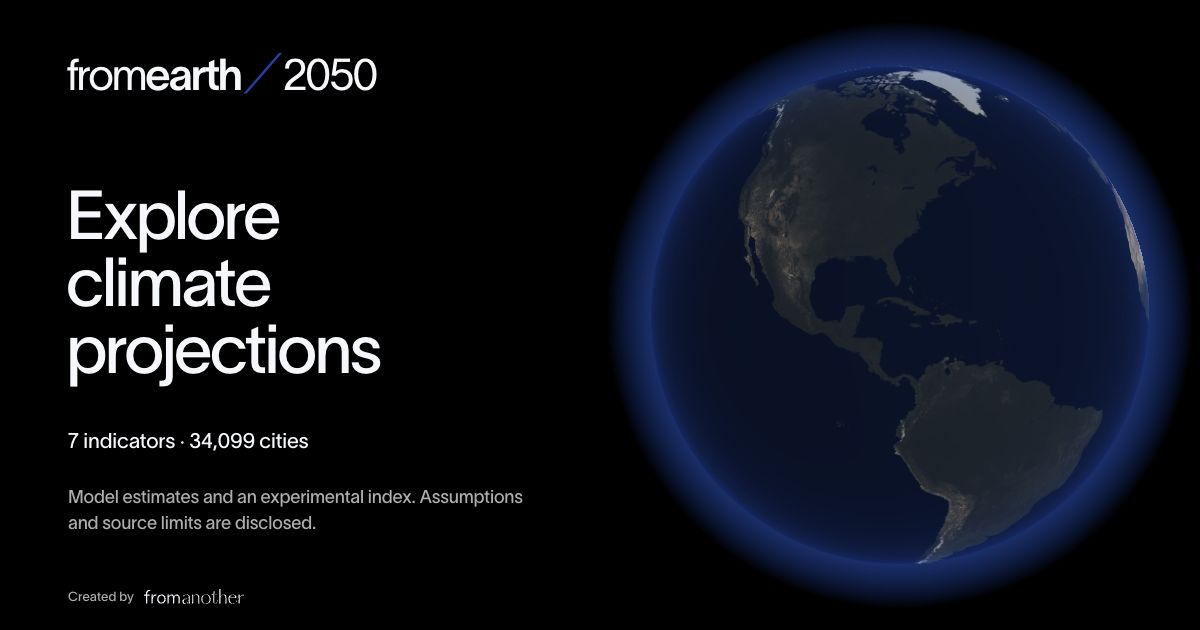
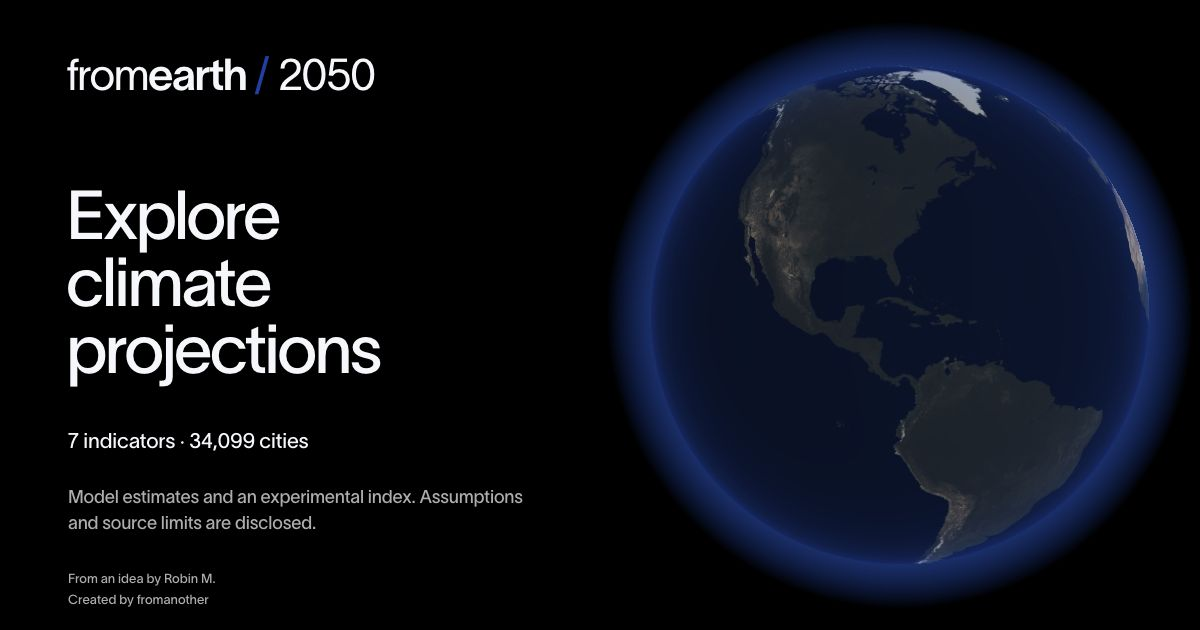
Center attribution, use linked studio text and align wordmark

Changed region(s): [[0.0617, 0.0905, 0.3392, 0.1508], [0.0617, 0.9048, 0.2158, 0.9651]]

diff --git a/index.html b/index.html
@@ -225,7 +225,7 @@
 
   <div class="v-centre">
     <div class="v-eyebrow"><span data-t="sous1"></span></div>
-     <div id="v-wordmark" aria-hidden="true"><span class="v-masque"><span class="lettre">from<strong>earth</strong><em>／</em>2050</span></span></div>
+     <div id="v-wordmark" aria-hidden="true"><span class="v-masque"><span class="lettre brand-lockup"><span class="brand-name">from<strong>earth</strong></span><em>/</em><span class="brand-year">2050</span></span></span></div>
     <div class="v-eyebrow v-eyebrow-bas"><span data-t="sous2"></span></div>
 
     <div class="v-charge">
@@ -239,7 +239,7 @@
 </div>
 
 <header id="titre" class="panneau">
-  <h1 id="wordmark" aria-label="fromearth / 2050"><span>from<strong>earth</strong><em>／</em>2050</span></h1>
+  <h1 id="wordmark" aria-label="fromearth / 2050"><span class="brand-lockup"><span class="brand-name">from<strong>earth</strong></span><em>/</em><span class="brand-year">2050</span></span></h1>
   <div class="micro" data-t="sousHeader"></div>
 </header>
 
@@ -307,7 +307,7 @@
       <button class="bouton-ico fa-lien" id="bouton-partager"></button>
       <button class="bouton-ico fa-lien" id="bouton-son">Son · off</button>
       <button class="bouton-ico fa-lien" id="bouton-langue" type="button" aria-haspopup="dialog"></button>
-      <p class="creator-credit"><span data-t="createdBy"></span><a href="https://fromanother.love" target="_blank" rel="noopener"><img src="./assets/fromanother.svg" alt="fromanother"></a></p>
+      <div class="creator-credit"><p class="creator-idea" data-t="ideaBy"></p><p class="creator-studio"><a href="https://fromanother.love" target="_blank" rel="noopener"><span data-t="createdBy"></span> fromanother</a></p></div>
     </div>
   </div>
 </div>
@@ -2901,9 +2901,7 @@ async function genererStory(opts){
   const cjk = ['ja', 'zh', 'zh-Hant'].includes(langue);
   const indice = pays ? indicePays(l[1], an) : (l[7] ? indiceHabitabilite(l, an) : null);
   const indice50 = pays ? indicePays(l[1], 2050) : (l[7] ? indiceHabitabilite(l, 2050) : null);
-  const creator = new Image();
-  creator.src = './assets/fromanother.svg';
-  await Promise.all([... [`300 340px ${sans}`,`400 150px ${sans}`,`500 36px ${sans}`,`600 62px ${sans}`,'300 62px "TWK Lausanne"','600 62px "TWK Lausanne"'].map(f => document.fonts.load(f)), creator.decode()]);
+  await Promise.all([`300 340px ${sans}`,`400 150px ${sans}`,`500 36px ${sans}`,`600 62px ${sans}`,'300 62px "TWK Lausanne"','600 62px "TWK Lausanne"'].map(f => document.fonts.load(f)));
   const cv = document.createElement('canvas'); cv.width = 1080; cv.height = 1920;
   const g = cv.getContext('2d');
   const CREME = '#F5F7FA', MUTER = 'rgba(245,247,250,0.65)';
@@ -3013,11 +3011,9 @@ async function genererStory(opts){
     g.letterSpacing = cjk ? '0px' : '2px'; g.fillStyle = 'rgba(245,247,250,0.45)'; g.font = `400 24px ${sans}`;
     g.fillText(location.host + location.pathname + `#v=${encodeURIComponent(l[0])}&an=${an}&cc=${l[1]}`, 540, 1746);
     g.letterSpacing = '0px';
-    g.font = `400 24px ${sans}`;
-    const label = t.createdBy + ' ', labelWidth = g.measureText(label).width;
-    const creditX = 540 - (labelWidth + 170) / 2;
-    g.textAlign = 'left'; g.fillText(label, creditX, 1830);
-    g.drawImage(creator, creditX + labelWidth, 1809, 170, 170 * creator.naturalHeight / creator.naturalWidth);
+    g.font = `400 24px ${sans}`; g.fillStyle = MUTER;
+    g.fillText(t.ideaBy, 540, 1806, 840);
+    g.fillText(t.createdBy + ' fromanother', 540, 1850, 840);
   }
   return cv;
 }

diff --git a/premium.css b/premium.css
@@ -16,10 +16,16 @@ html:lang(zh-Hant) {--police:'PingFang TC','Microsoft JhengHei','Noto Sans CJK T
 #titre #wordmark{font-family:"TWK Lausanne",sans-serif;font-weight:300;font-size:26px;white-space:nowrap}
 #v-wordmark{font-family:"TWK Lausanne",sans-serif;font-weight:300;font-size:clamp(28px,7vw,110px)}
 #wordmark strong,#v-wordmark strong{font-weight:600}
-.creator-credit{display:flex;align-items:center;gap:8px;margin-top:12px;padding-top:10px;border-top:1px solid var(--glass-edge);font:400 11px/1.4 var(--police);color:var(--glass-muted);white-space:nowrap}
-.creator-credit a{display:flex;align-items:center;min-height:44px}
-.creator-credit img{display:block;width:94px;height:auto}
-@media(max-width:720px){#titre #wordmark{font-size:clamp(14px,4.1vw,22px)}}
+#wordmark .brand-lockup,#v-wordmark .brand-lockup{display:inline-flex;align-items:baseline;gap:.18em;letter-spacing:0}
+.brand-name{letter-spacing:-.04em}
+.brand-year{letter-spacing:-.035em}
+.brand-lockup em{font-style:normal;font-weight:300}
+.creator-credit{display:grid;align-self:stretch;justify-items:center;gap:0;margin:12px 6px 0;padding:14px 6px 8px;border-top:1px solid var(--glass-edge);font:400 11px/1.5 var(--police);color:var(--glass-muted);text-align:center}
+.creator-credit p{margin:0}
+.creator-studio{display:flex;align-items:center;justify-content:center;font-size:12px}
+.creator-credit a{display:inline-flex;align-items:center;gap:.3em;min-height:44px;color:var(--glass-text);text-decoration:underline;text-decoration-color:#ffffff40;text-underline-offset:3px}
+.creator-credit a:hover{text-decoration-color:currentColor}
+@media(max-width:720px){#titre #wordmark{font-size:clamp(15px,4.6vw,22px)}}
 #titre h1 em {color:var(--bleu)}
 :is(#map-inspector,#dossier,#city-comparison,.pedago-carte,.language-content) {border-radius:28px}
 :is(#map-inspector,#dossier,#city-comparison,#menu-reglages,#resultats,.pedago-carte,.language-content,#calque-bulle,#survol,#accroche) {backdrop-filter:blur(8px) saturate(1.5);-webkit-backdrop-filter:blur(8px) saturate(1.5)}
@@ -154,7 +160,7 @@ body:not(.dossier-ouvert) #timeline .an {font-weight:300;letter-spacing:-.07em;t
 body #recherche,body.dossier-ouvert #recherche {padding-right:100px}
 #resultats {right:100px}
 #champ-recherche {background:var(--glass-surface);border-color:var(--glass-edge);box-shadow:var(--glass-shadow);backdrop-filter:blur(2px) saturate(1.5);-webkit-backdrop-filter:blur(2px) saturate(1.5)}
-#menu-reglages {min-width:184px;padding:6px}
+#menu-reglages {width:min(232px,calc(100vw - 40px));min-width:0;box-sizing:border-box;padding:8px}
 #menu-reglages .bouton-ico {font:400 12px/1.4 var(--police);letter-spacing:0;text-transform:none;min-height:44px;padding:10px 12px}
 :is(#map-inspector,#dossier,#city-comparison,#menu-reglages,#resultats,.pedago-carte) {background:var(--glass-surface);border-color:var(--glass-edge);box-shadow:var(--glass-shadow)}
 #menu-reglages {--glass-tint:#17171799;backdrop-filter:blur(24px) saturate(1.6);-webkit-backdrop-filter:blur(24px) saturate(1.6)}
